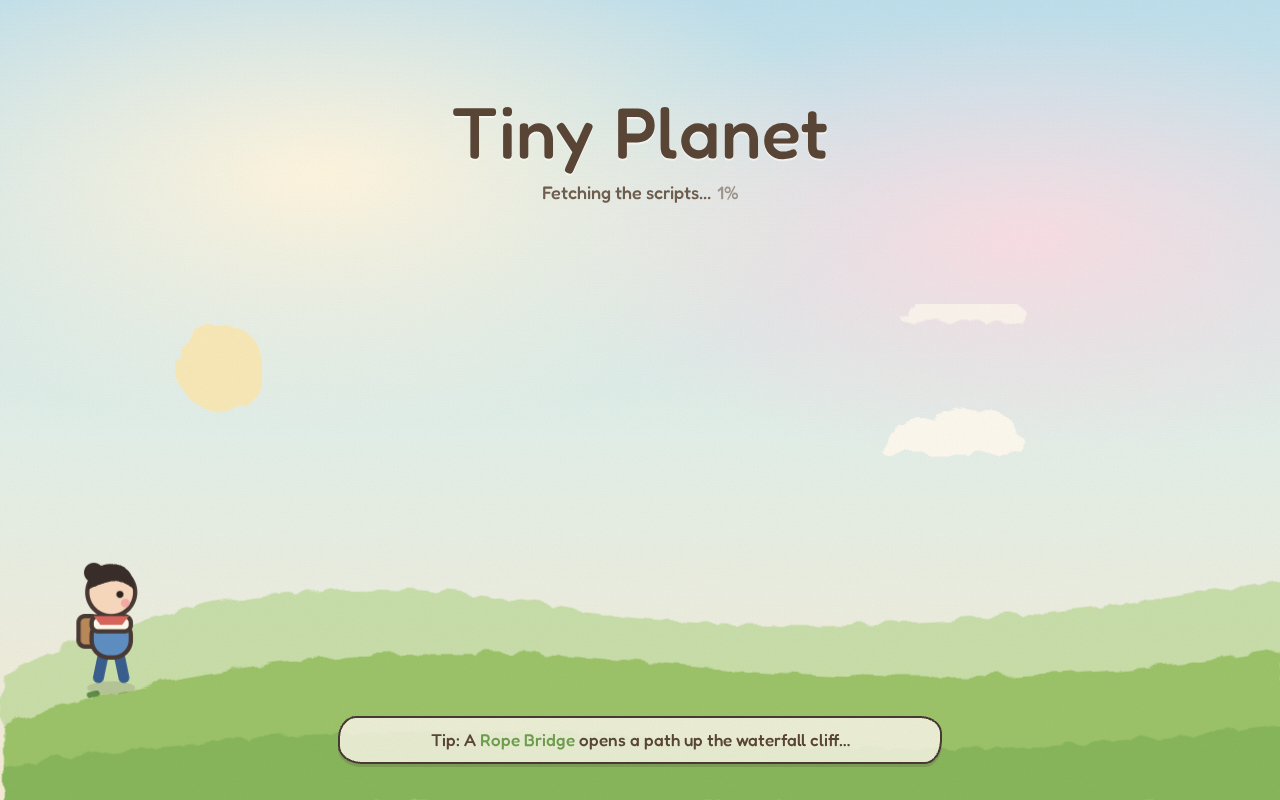
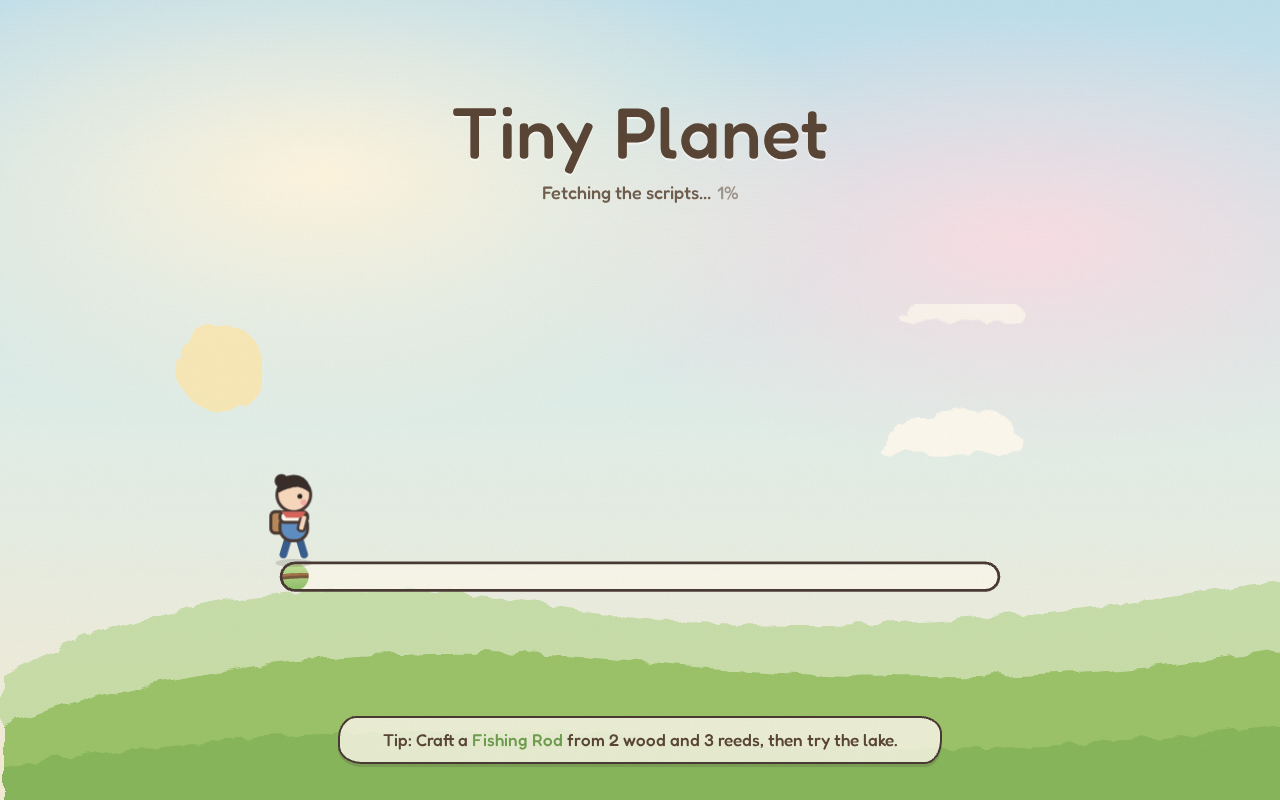
Leafy progress bar loader with walking traveller; docs and screenshots

Changed region(s): [[0.1875, 0.5938, 0.7812, 0.75], [0.3125, 0.9062, 0.6875, 0.9375], [0.0625, 0.6875, 0.125, 0.875]]

diff --git a/index.html b/index.html
@@ -6,10 +6,18 @@
 #ld svg{position:absolute;left:0;bottom:0;width:100%;height:62%}
 .cl{animation:dr 46s linear infinite}.cl.b{animation-duration:70s;animation-delay:-30s}.cl.c{animation-duration:58s;animation-delay:-12s}
 @keyframes dr{from{transform:translateX(-260px)}to{transform:translateX(1260px)}}
-.tv{transition:transform .8s cubic-bezier(.4,0,.3,1)}.bob{animation:bob .5s ease-in-out infinite alternate}.lg{transform-box:fill-box;transform-origin:50% 0;animation:sw .5s ease-in-out infinite alternate}.lg.r{animation-direction:alternate-reverse}
-@keyframes bob{to{transform:translateY(-2.5px)}}@keyframes sw{from{transform:rotate(-22deg)}to{transform:rotate(22deg)}}
-.lf{transform-box:fill-box;transform-origin:0 100%;transform:scale(0);transition:transform .7s cubic-bezier(.3,1.6,.5,1)}.lf.on{transform:scale(1)}
-#vn{transition:stroke-dashoffset .6s ease}
+#ld #bar{position:absolute;left:50%;top:auto;bottom:22%;height:auto;transform:translateX(-50%);width:min(760px,90vw);overflow:visible}
+#fc{transition:width .7s cubic-bezier(.4,0,.3,1)}
+#tv{transition:transform .7s cubic-bezier(.4,0,.3,1)}
+.lf{transform-box:fill-box;transform-origin:50% 100%;transform:scale(0);transition:transform .6s cubic-bezier(.3,1.7,.5,1)}.lf.on{transform:scale(1)}
+.bd{transform-box:fill-box;transform-origin:50% 100%}
+.walk .bd{animation:bob .32s ease-in-out infinite alternate}.walk .lg{animation:sw .32s ease-in-out infinite alternate}.walk .lg.r{animation-direction:alternate-reverse}
+.idle .bd{animation:br 1.6s ease-in-out infinite alternate}
+.done .bd{animation:hop .9s cubic-bezier(.3,0,.4,1) 3}.done .ar{animation:wv .35s ease-in-out infinite alternate}
+.lg,.ar{transform-box:fill-box;transform-origin:50% 0}.ar{transform:rotate(15deg)}
+@keyframes bob{to{transform:translateY(-3px)}}@keyframes sw{from{transform:rotate(-24deg)}to{transform:rotate(24deg)}}
+@keyframes br{to{transform:scaleY(1.035)}}@keyframes hop{0%,60%,100%{transform:none}25%{transform:translateY(-16px) scaleY(1.04)}45%{transform:translateY(0) scaleY(.92)}}
+@keyframes wv{from{transform:rotate(150deg)}to{transform:rotate(190deg)}}
 #hd{position:absolute;left:0;right:0;top:11%;text-align:center}
 #hd h1{margin:0;font-weight:500;font-size:clamp(40px,7vw,72px);letter-spacing:.01em;color:#5a4636;text-shadow:0 2px 0 #fff9}
 #st{margin-top:6px;font-size:18px;opacity:.85;min-height:1.4em}#pc{font-variant-numeric:tabular-nums;opacity:.6;margin-left:6px}
@@ -18,7 +26,7 @@
 #go{position:absolute;left:50%;top:36%;transform:translate(-50%,10px) scale(.9);opacity:0;pointer-events:none;font:inherit;font-size:24px;font-weight:500;color:#4a3a35;padding:14px 34px 16px;background:#fff6d8;border:2.8px solid #4a3a35;border-radius:24px 28px 22px 30px/28px 22px 30px 24px;box-shadow:0 5px 0 #4a3a35;cursor:pointer;transition:all .5s cubic-bezier(.3,1.5,.5,1)}
 #go.on{opacity:1;pointer-events:auto;transform:translate(-50%,0)}#go:hover{background:#eaf5d0}#go:active{transform:translate(-50%,3px);box-shadow:0 2px 0 #4a3a35}
 #go small{display:block;font-size:13px;opacity:.6;font-weight:400}
-@media (prefers-reduced-motion:reduce){.cl,.bob,.lg,#go.on{animation:none!important}.tv,#vn,.lf,#tp,#ld{transition:none!important}}
+@media (prefers-reduced-motion:reduce){.cl,.bd,.lg,.ar,#go.on{animation:none!important}#tv,#fc,.lf,#tp,#ld{transition:none!important}}
 </style></head><body style="margin:0;overflow:hidden;background:#cfe3ef">
 <div id="ld" role="progressbar" aria-label="Loading Tiny Planet" aria-valuemin="0" aria-valuemax="100" aria-valuenow="0">
 <svg viewBox="0 0 1000 400" preserveAspectRatio="xMidYMax slice" aria-hidden="true"><defs><filter id="wc"><feTurbulence baseFrequency=".035" numOctaves="2" seed="4"/><feDisplacementMap in="SourceGraphic" scale="9"/></filter></defs>
@@ -26,9 +34,13 @@
 <path d="M0 300Q180 205 420 245T1000 225V400H0z" fill="#bcd99a" filter="url(#wc)" opacity=".75"/>
 <path d="M0 340Q220 262 500 290T1000 280V400H0z" fill="#9cc46a" filter="url(#wc)"/>
 <path d="M0 372Q260 330 520 350T1000 338V400H0z" fill="#86b65a" filter="url(#wc)" opacity=".9"/>
-<path id="vn" d="M70 318C170 296 240 284 340 288S520 282 600 276S800 268 930 262" fill="none" stroke="#5f8f4a" stroke-width="4.5" stroke-linecap="round"/>
+</svg>
+<svg id="bar" viewBox="0 0 720 130" aria-hidden="true"><defs><clipPath id="cp"><rect id="fc" x="20" y="72" width="0" height="26" rx="13"/></clipPath><linearGradient id="gw" x1="0" x2="0" y1="0" y2="1"><stop offset="0" stop-color="#c6e39a"/><stop offset="1" stop-color="#8fbf6a"/></linearGradient></defs>
+<rect x="20" y="72" width="680" height="26" rx="13" fill="#fffaf0" fill-opacity=".65" stroke="#4a3a35" stroke-width="2.6" stroke-dasharray="680 4 2 4"/>
+<g clip-path="url(#cp)"><rect x="20" y="72" width="680" height="26" rx="13" fill="url(#gw)"/><path d="M14 86C60 79 100 92 150 85S240 79 290 86S380 93 430 85S520 79 570 86S660 92 706 84" fill="none" stroke="#7a5a3c" stroke-width="5" stroke-linecap="round"/><path d="M14 86C60 79 100 92 150 85S240 79 290 86S380 93 430 85S520 79 570 86S660 92 706 84" fill="none" stroke="#a8744c" stroke-width="2" stroke-linecap="round" transform="translate(0 -1.2)"/></g>
+<rect x="20" y="72" width="680" height="26" rx="13" fill="none" stroke="#4a3a35" stroke-width="2.6"/>
 <g id="lv"></g>
-<g id="tv" class="tv"><g transform="scale(1.7)"><g class="bob"><rect x="-15" y="-31" width="9" height="14" rx="3" fill="#b98a5a" stroke="#4a3a35" stroke-width="2"/><ellipse cx="0" cy="2" rx="11" ry="3" fill="#4a3a35" opacity=".15"/><rect class="lg" x="-6" y="-14" width="5" height="14" rx="2.5" fill="#3a5f8f"/><rect class="lg r" x="1" y="-14" width="5" height="14" rx="2.5" fill="#3a5f8f"/><rect x="-9" y="-30" width="18" height="18" rx="8" fill="#5f8fc4" stroke="#4a3a35" stroke-width="2"/><rect x="-9" y="-31" width="18" height="7" rx="3" fill="#fffaf0" stroke="#4a3a35" stroke-width="2"/><circle cx="0" cy="-42" r="11" fill="#f8d9bf" stroke="#4a3a35" stroke-width="2"/><path d="M-11-43q1-12 11-12t11 12q-6-5-11-4t-11 4z" fill="#3a2e2a"/><circle cx="-8" cy="-51" r="4.5" fill="#3a2e2a"/><path d="M-8-31h16l-3 4h-10z" fill="#d9655b"/><circle cx="4" cy="-41" r="1.6" fill="#2e2420"/><circle cx="6.5" cy="-37" r="2" fill="#f4a3a0" opacity=".8"/></g></g></g>
+<g id="tv" class="idle" transform="translate(30 72)"><g transform="scale(1.45)"><ellipse cx="0" cy="0" rx="12" ry="2.6" fill="#4a3a35" opacity=".18"/><g class="bd"><rect class="lg" x="-6" y="-14" width="5" height="14" rx="2.5" fill="#3a5f8f"/><rect class="lg r" x="1" y="-14" width="5" height="14" rx="2.5" fill="#3a5f8f"/><rect x="-15" y="-31" width="9" height="14" rx="3" fill="#b98a5a" stroke="#4a3a35" stroke-width="2"/><rect x="-9" y="-30" width="18" height="18" rx="8" fill="#5f8fc4" stroke="#4a3a35" stroke-width="2"/><rect x="-9" y="-31" width="18" height="7" rx="3" fill="#fffaf0" stroke="#4a3a35" stroke-width="2"/><rect class="ar" x="5" y="-29" width="4.5" height="11" rx="2.2" fill="#f8d9bf" stroke="#4a3a35" stroke-width="1.6"/><circle cx="0" cy="-42" r="11" fill="#f8d9bf" stroke="#4a3a35" stroke-width="2"/><path d="M-11-43q1-12 11-12t11 12q-6-5-11-4t-11 4z" fill="#3a2e2a"/><circle cx="-8" cy="-51" r="4.5" fill="#3a2e2a"/><path d="M-8-31h16l-3 4h-10z" fill="#d9655b"/><circle cx="4" cy="-41" r="1.6" fill="#2e2420"/><circle cx="6.5" cy="-37" r="2" fill="#f4a3a0" opacity=".8"/></g></g></g>
 </svg>
 <div id="hd"><h1>Tiny Planet</h1><div id="st">Opening the sketchbook…<span id="pc"></span></div></div>
 <button id="go">Press to enter<small>Enter · Space · tap</small></button>
@@ -36,18 +48,19 @@
 </div>
 <script>(function(){
 var W={js:20,fonts:1,world:31,bake:7,shaders:4,frame:37},L={js:"Fetching the scripts",fonts:"Unpacking the fonts",world:"Shaping the planet",bake:"Baking the traveller",shaders:"Mixing the paints (shaders)",frame:"Painting the first frame"},O=["js","fonts","world","bake","shaders","frame"];
-var P={},d=document,$=function(i){return d.getElementById(i)},ld=$("ld"),vn=$("vn"),tv=$("tv"),len=vn.getTotalLength(),q=location.search,done=0,rm=matchMedia("(prefers-reduced-motion: reduce)").matches;
-vn.style.strokeDasharray=len;vn.style.strokeDashoffset=len;
-var lv=$("lv"),LV=[],NS="http://www.w3.org/2000/svg";function el(n,a,p){var e=d.createElementNS(NS,n);for(var k in a)e.setAttribute(k,a[k]);p&&p.appendChild(e);return e}
-for(var i=1;i<14;i++){var t=i/14,pt=vn.getPointAtLength(len*t),s=i%2?1:-1,w=el("g",{transform:"translate("+pt.x+" "+pt.y+") scale("+s+" "+(i%2?1:-1)+")"},lv),g=el("g",{"class":"lf"},w);
-if(i%4==2){el("path",{d:"M0 0q2-9 0-16",stroke:"#5f8f4a","stroke-width":2,fill:"none"},g);for(var k=0;k<5;k++){var a=k*1.2566;el("circle",{cx:Math.cos(a)*4.5,cy:-18+Math.sin(a)*4.5,r:3.6,fill:"#f9b7c8",stroke:"#4a3a35","stroke-width":1.2},g)}el("circle",{cx:0,cy:-18,r:2.2,fill:"#ffd36e"},g)}
-else{el("path",{d:"M0 0C3-9 12-15 23-14C19-4 10 1 0 0Z",fill:i%3?"#7fae5f":"#9cc46a",stroke:"#4a3a35","stroke-width":1.4,"stroke-linejoin":"round"},g);el("path",{d:"M2-1C8-6 13-9 19-12",stroke:"#4a3a3566","stroke-width":1,fill:"none"},g)}
-LV.push([t,g])}
-function draw(){var p=0;for(var k in W)p+=W[k]*(P[k]||0);p/=100;vn.style.strokeDashoffset=len*(1-p);var pt=vn.getPointAtLength(len*Math.max(.02,p));tv.setAttribute("transform","translate("+pt.x+" "+(pt.y-2)+")");LV.forEach(function(l){if(p>=l[0])l[1].classList.add("on")});ld.setAttribute("aria-valuenow",Math.round(p*100));var cur=O.filter(function(k){return(P[k]||0)<1})[0];if(cur&&!done)$("st").firstChild.nodeValue=L[cur]+"…";$("pc").textContent=done?"":Math.round(p*100)+"%";window.__loader.p=p}
+var P={},d=document,$=function(i){return d.getElementById(i)},ld=$("ld"),q=location.search,done=0,rm=matchMedia("(prefers-reduced-motion: reduce)").matches;
+var lv=$("lv"),LV=[],NS="http://www.w3.org/2000/svg",fc=$("fc"),tv=$("tv"),lastP=-1,wt;function el(n,a,p){var e=d.createElementNS(NS,n);for(var k in a)e.setAttribute(k,a[k]);p&&p.appendChild(e);return e}
+for(var i=0;i<19;i++){var x=38+i*35.5,up=i%2==0,w=el("g",{transform:"translate("+x+" "+(up?75:95)+") scale(1.4 "+(up?1.4:-1.4)+")"},lv),g=el("g",{"class":"lf"},w);
+if(i%5==3){el("path",{d:"M0 0q1-6 0-11",stroke:"#5f8f4a","stroke-width":2,fill:"none"},g);for(var k=0;k<5;k++){var a=k*1.2566;el("circle",{cx:Math.cos(a)*4.2,cy:-14+Math.sin(a)*4.2,r:3.4,fill:i%2?"#fff3c4":"#f9b7c8",stroke:"#4a3a35","stroke-width":1.2},g)}el("circle",{cx:0,cy:-14,r:2,fill:"#ffd36e"},g)}
+else{var r=(i*37%30)-15;el("path",{d:"M0 0C-8-6-8-16 0-22C8-16 8-6 0 0Z",fill:i%3?"#7fae5f":"#9cc46a",stroke:"#4a3a35","stroke-width":1.4,transform:"rotate("+r+")"},g);el("path",{d:"M0-2V-18",stroke:"#4a3a3566","stroke-width":1,transform:"rotate("+r+")"},g)}
+LV.push([(x-20)/680,g])}
+function draw(){var p=0;for(var k in W)p+=W[k]*(P[k]||0);p/=100;fc.setAttribute("width",Math.max(26,680*p));var x=20+Math.max(12,680*p-6);tv.setAttribute("transform","translate("+x+" 72)");
+if(p>lastP&&lastP>=0&&!done){tv.setAttribute("class","walk");clearTimeout(wt);wt=setTimeout(function(){if(!done)tv.setAttribute("class","idle")},900)}lastP=p;
+LV.forEach(function(l){if(p>=l[0])l[1].classList.add("on")});ld.setAttribute("aria-valuenow",Math.round(p*100));var cur=O.filter(function(k){return(P[k]||0)<1})[0];if(cur&&!done)$("st").firstChild.nodeValue=L[cur]+"…";$("pc").textContent=done?"":Math.round(p*100)+"%";window.__loader.p=p}
 // JS: real bytes from Resource Timing against the build manifest (dev server: stage-level only)
 var CH=/*__CHUNKS__*/null,tot=0,got={};if(CH){for(var f in CH)tot+=CH[f];try{new PerformanceObserver(function(l){l.getEntries().forEach(function(e){var n=e.name.split("/").pop().split("?")[0];if(CH[n]&&!got[n]){got[n]=1;var s=0;for(var k in got)s+=CH[k];if((P.js||0)<1)stage("js",Math.min(.99,s/tot))}})}).observe({type:"resource",buffered:true})}catch(e){}}
 function stage(k,p){if(!(k in W))return;P[k]=Math.max(P[k]||0,p);draw();if(k=="frame"&&p>=1)ready()}
-function ready(){if(done)return;done=1;$("st").firstChild.nodeValue="The planet is ready";var b=$("go");b.classList.add("on");setTimeout(function(){b.focus({preventScroll:true})},50);if(/[?&]enter/.test(q))enter()}
+function ready(){if(done)return;done=1;tv.setAttribute("class","done");$("st").firstChild.nodeValue="The planet is ready";var b=$("go");b.classList.add("on");setTimeout(function(){b.focus({preventScroll:true})},50);if(/[?&]enter/.test(q))enter()}
 function enter(){if(!done||ld.classList.contains("out"))return;ld.classList.add("out");removeEventListener("keydown",key,true);setTimeout(function(){ld.remove()},rm?0:950)}
 function key(e){if(done&&(e.code=="Enter"||e.code=="Space")){e.preventDefault();e.stopPropagation();enter()}}
 addEventListener("keydown",key,true);$("go").onclick=enter;ld.addEventListener("pointerup",function(){if(done)enter()});

diff --git a/ART_DIRECTION.md b/ART_DIRECTION.md
@@ -130,7 +130,9 @@ Villagers differ by body (tall / short / round / slim, toddler → hunched elder
 ## Loading screen
 - **Sky:** a pastel wash sky (cream sun glow and pink haze over a blue-to-sage-to-cream gradient), multiplied with an SVG `feTurbulence` paper grain.
 - **Hills:** three hill layers and the clouds go through a turbulence displacement filter, which gives torn watercolour edges.
-- **Vine:** the progress vine is an ink-green stroke that grows with real progress. Ink-outlined leaves and pink blossoms pop in with a springy scale as it passes them.
-- **Traveller:** the SVG traveller (bun, red scarf, blue overalls, satchel) bobs along at the tip of the vine.
+- **Leafy loading bar:** a paper groove with an ink outline. It fills left to right with real progress: a green wash crossed by a wavy brown branch. Ink-outlined leaves and cream or pink blossoms pop out above and below it as the fill passes them.
+- **Traveller:** the SVG traveller (bun, red scarf, blue overalls, satchel) stands on top of the bar at the current progress point.
+  - It walks while progress advances and breathes idly while a stage is working.
+  - At 100% it hops three times and waves.
 - **Panels:** the tip card and the "Press to enter" button reuse the game's paper-and-ink panel language and Fredoka, with a rounded system font as fallback.
-- **Reduced motion:** with `prefers-reduced-motion`, cloud drift, the walk cycle and the fades are switched off. The vine still shows progress.
+- **Reduced motion:** with `prefers-reduced-motion`, cloud drift, the walk, hop and wave, and the fades are switched off. The bar still shows progress.

diff --git a/README.md b/README.md
@@ -56,6 +56,7 @@ Explore the planet, gather resources in each biome, and craft tools, food and de
 ## Loading
 
 - **Inline HTML loader** in `index.html` paints before any JS runs. Its progress is real and staged: fetching code, then building the world, then compiling shaders, then the first frame (`src/boot.js`).
+- **Leafy progress bar:** the loader shows a vine-and-leaf progress bar that fills with real progress, while the little traveller walks along it.
 - **Chunk split:** `vendor-three`, `vendor-r3f` (React, r3f, drei) and `vendor-post` (postprocessing). The game `World` and `UI` are lazy-loaded, and so are the optional character and sprite modes.
 - **Terrain fix:** the curve distance checks behind terrain colouring used to block the main thread for about 35 s. They now run in a fraction of a second.
 - **Before → after** (live site, headless Chromium with software WebGL, time to the first rendered frame): unthrottled **36.4 s → 1.8–3.0 s**; Fast 3G + 4x CPU **147 s → 9.4 s**. Total transfer is about 374 KB gzipped either way.

diff --git a/GAMEPLAY.md b/GAMEPLAY.md
@@ -71,6 +71,7 @@ The Rope Bridge climbs the cliff on the side away from the lake. At the top is a
 
 ## Loading screen
 - The loader is inline in `index.html` (about 4.9 KB gzipped, plain HTML, CSS and SVG). It paints before any JS or WebGL runs.
+- Progress shows as a leafy loading bar with the traveller walking along its top.
 - It reports real stages, weighted by their measured share of a Fast 3G + 4× CPU load:
 
   | Stage | Weight | What it covers |
